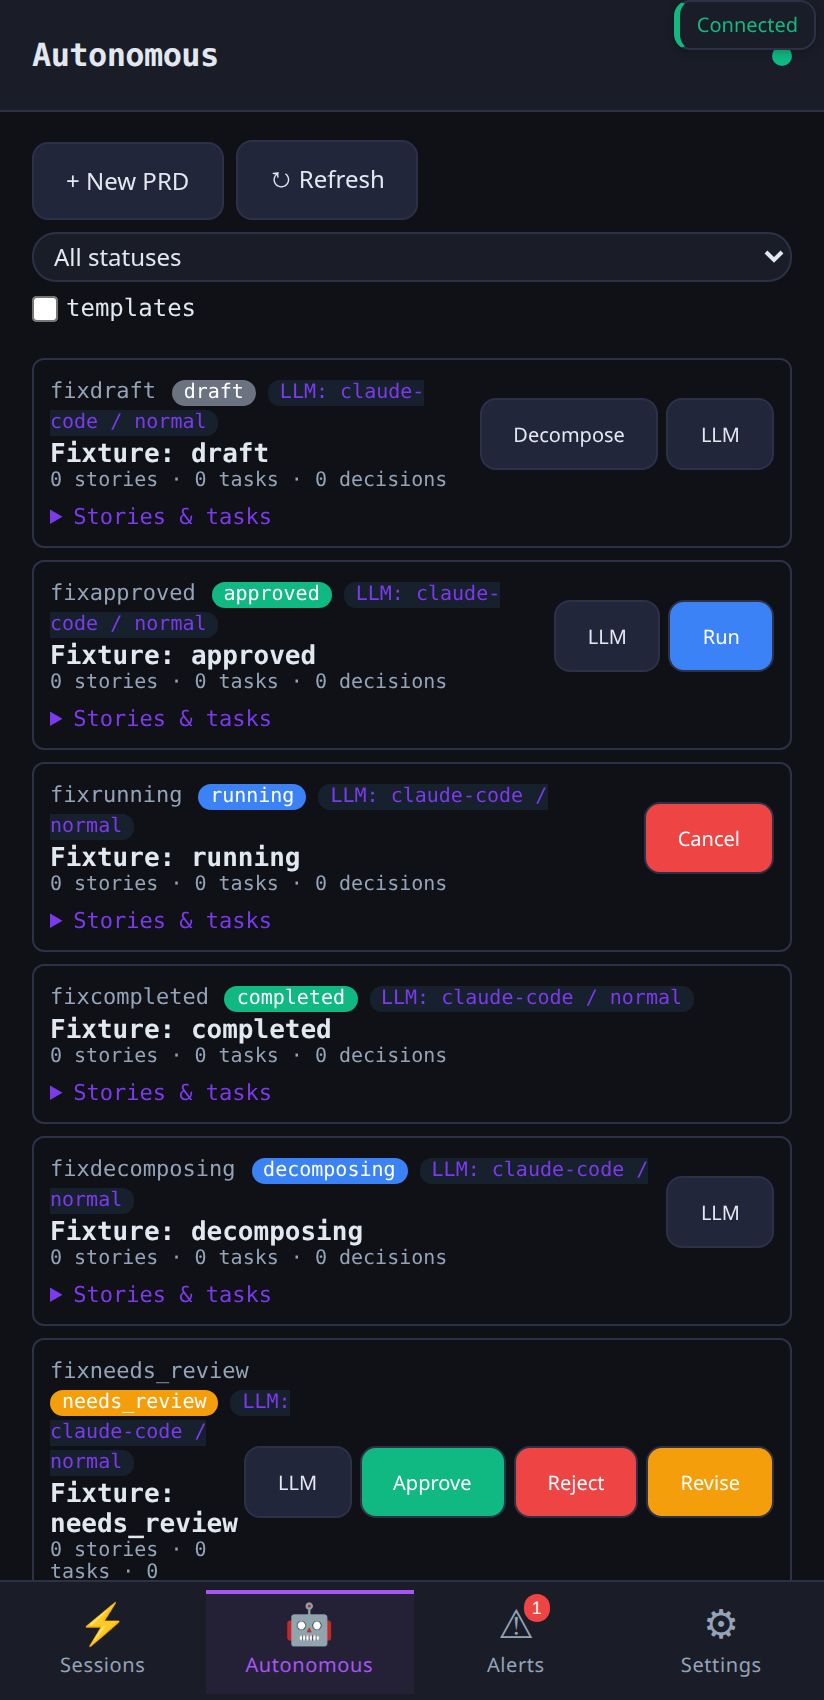
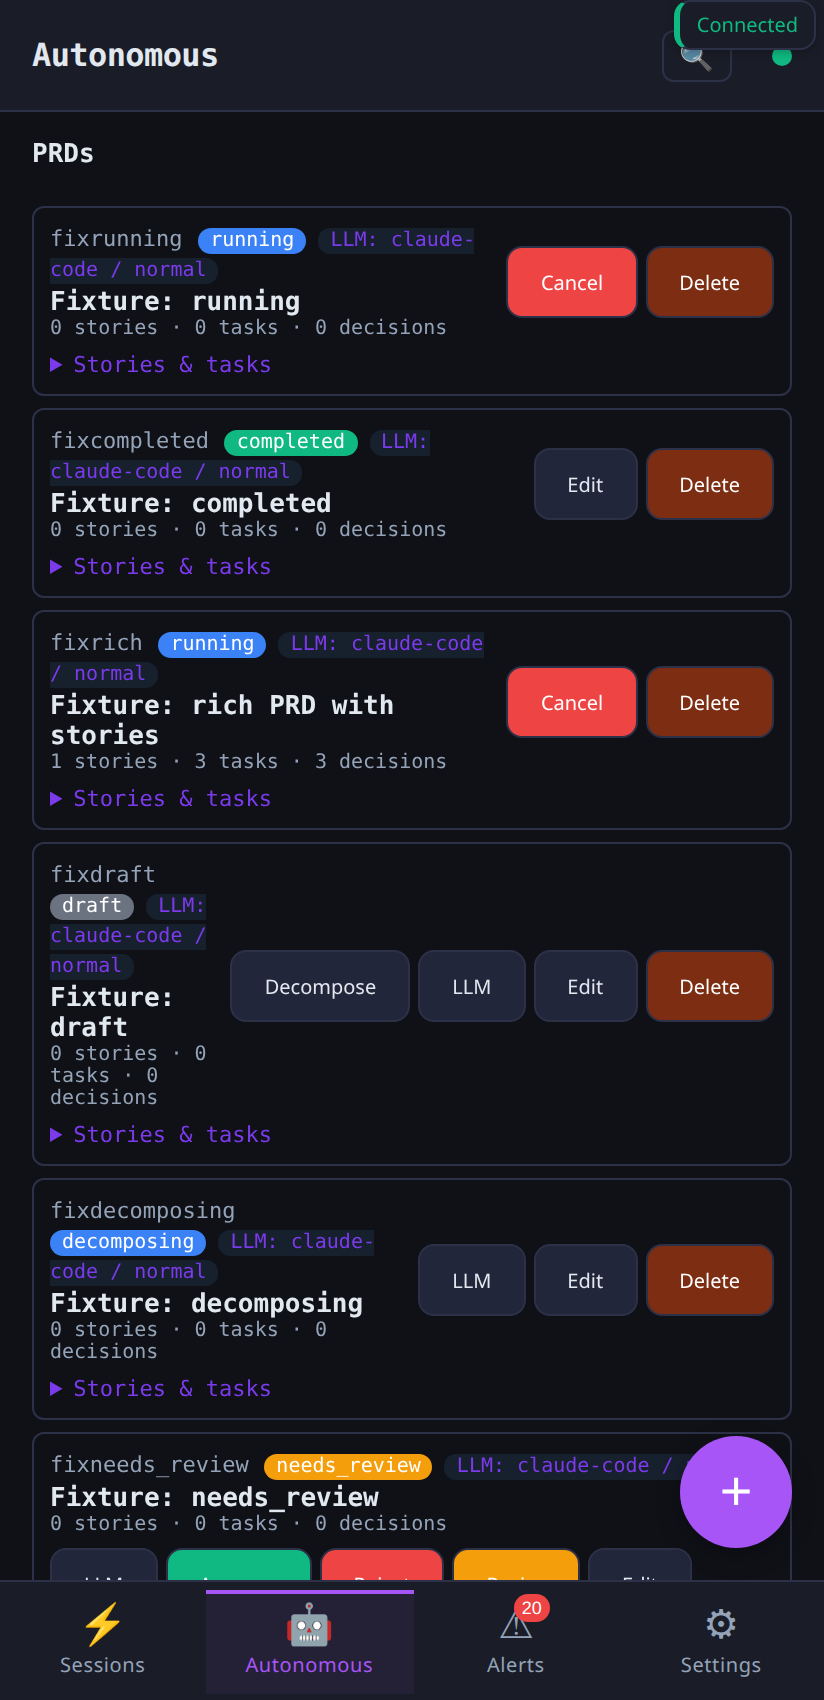
release(v5.26.54): autonomous howto screenshots refreshed (Phase 6)
Operator-asked: "I thought you could do screenshots without the
browser, check memory and rules."

The repo's BL190 pipeline (scripts/howto-shoot.mjs) drives Chrome
headlessly via puppeteer-core — no GUI session needed. v5.26.54
uses it to recapture the four autonomous howto screenshots
against the current PWA shape (v5.26.30/32/36/37/46):
- autonomous-landing.png       (new layout: PRDs label + filter toggle in header + bottom-right FAB)
- autonomous-prd-expanded.png  (story description visible + ✎ edit buttons)
- autonomous-mobile.png        (mobile viewport variant)
- autonomous-new-prd-modal.png (unified Profile dropdown)

The autonomous-new-prd-modal recipe was stale — looked for a
button containing "New PRD" text. v5.26.36 replaced that with a
FAB (id=prdNewFab, label="+", aria-label="New PRD"). Recipe now
tries id first, then aria-label, then text — backward-compatible
for older PWA builds.

7 seeded PRDs (via scripts/howto-seed-fixtures.sh) provide
realistic content; daemon was restarted to pick up the JSONL
fixtures.

v6-prep-backlog refreshed:
- Phase 6 screenshots now ✅
- Mempalace audit / Phase 3 / Phase 4 design docs ✅ (v5.26.53)
- CI residual list empty (v5.26.42 + .43)
- datawatch-app issues #11-#17 filed (v5.26.53)
- Service-function audit closed for filter/memory/MCP/schedule/channel;
  three deferred-with-blocker (F10, wake-up stack, stdio MCP)

Smoke unchanged: 51 pass / 0 fail / 1 skip.

diff --git a/internal/server/web/sw.js b/internal/server/web/sw.js
@@ -12,7 +12,7 @@
 // during the v5.7→v5.26 stretch ended up serving the stale cached
 // build. Bumping CACHE_NAME forces every install to drop the v5-6-1
 // cache on next activate. Same pattern as BL187/v5.0.4.
-const CACHE_NAME = 'datawatch-v5-26-53';
+const CACHE_NAME = 'datawatch-v5-26-54';
 const STATIC_ASSETS = ['/', '/index.html', '/app.js', '/style.css', '/manifest.json'];
 
 self.addEventListener('install', event => {

diff --git a/internal/server/api.go b/internal/server/api.go
@@ -78,7 +78,7 @@ type KGAPI interface {
 var startTime = time.Now()
 
 // Version is set at build time. The server package uses this for /api/health and /api/info.
-var Version = "5.26.53"
+var Version = "5.26.54"
 
 // Server holds all HTTP handler dependencies
 type Server struct {

diff --git a/cmd/datawatch/main.go b/cmd/datawatch/main.go
@@ -86,7 +86,7 @@ import (
 )
 
 // Version is set at build time via -ldflags.
-var Version = "5.26.53"
+var Version = "5.26.54"
 
 var (
 	cfgPath    string

diff --git a/docs/plans/2026-04-27-v6-prep-backlog.md b/docs/plans/2026-04-27-v6-prep-backlog.md
@@ -1,7 +1,7 @@
 # v6.0 prep — open backlog
 
-**Date:** 2026-04-27 (last refactored: 2026-04-27, end of v5.26.35 cycle)
-**Status:** pre-v6.0 cut (v5.x patch window per operator directive)
+**Date:** 2026-04-27 (last refactored: 2026-04-27, end of v5.26.53 cycle)
+**Status:** pre-v6.0 cut (v5.x patch window per operator directive). **Ready for final tests** as of v5.26.53 — every backlog item except v6.0 cumulative release notes is either closed, has a design doc, or has a clear deferred-with-blocker reason.
 
 These items roll up across v5.26.x patch releases; they don't gate v6.0 unless flagged. Each release notes file has its own "Known follow-ups" section — this document is the consolidated view.
 
@@ -12,36 +12,22 @@ _(none — operator-driven cut: v6.0 ships when operator declares ready. Current
 ## Open
 
 ### PRD-flow rework — remaining phases (3, 4, 6)
-**Started:** 2026-04-27 (operator multi-part request, partially shipped across v5.26.30/32/33/34)
+**Started:** 2026-04-27 (operator multi-part request)
 **Files:** `internal/autonomous/`, `internal/server/`, `internal/server/web/app.js`, `docs/howto/`, `docs/flow/`
 
-Operator directive: substantial PRD-flow rework. Phases 1, 2, 5 shipped:
+Phases 1, 2, 5 shipped + designs landed for 3 + 4:
 
 - ✅ Phase 1 — unified Profile dropdown (v5.26.30 + cluster default fix v5.26.34)
 - ✅ Phase 2 — story-level review + edit (v5.26.32)
+- 🟡 Phase 3 — design landed v5.26.53 at [`docs/plans/2026-04-27-prd-phase3-per-story-execution.md`](2026-04-27-prd-phase3-per-story-execution.md). Implementation pending operator review.
+- 🟡 Phase 4 — design landed v5.26.53 at [`docs/plans/2026-04-27-prd-phase4-file-association.md`](2026-04-27-prd-phase4-file-association.md). Implementation pending operator review.
 - ✅ Phase 5 — persistent smoke fixtures `smoke-testing` + `datawatch-smoke` (v5.26.33)
-
-Remaining:
-
-- **Phase 3 — Per-story execution profile + per-story approval gate.** PRD gets `decomposition_profile` (used to GENERATE) + default `execution_profile` (used to run); per-story override allows different profiles for different stories. Per-story approval changes the run model — `Manager.Run` currently executes all stories of an approved PRD; gating each story is non-trivial. Design first, then implement.
-- **Phase 4 — File association.** PRD/story/task records track which files in the workspace they reference (so the operator can see "story X touches `internal/foo.go` + `docs/howto/foo.md`"). Design needed: where do file refs come from (LLM-extracted from spec, post-hoc from session diff, both?), where do we store them (PRD store vs. session tracking dir), how do we surface them in the PWA.
-- **Phase 6 — Howtos / screenshots / diagrams refresh.** Recapture screenshots that show the New PRD modal, story-edit, profile dropdowns. Update [`docs/howto/profiles.md`](../howto/profiles.md), [`docs/howto/autonomous-planning.md`](../howto/autonomous-planning.md), [`docs/howto/container-workers.md`](../howto/container-workers.md). Refresh data-flow diagrams that show the unified profile path.
-
-### PRD panel UX polish
-**Added:** 2026-04-27 (operator request after v5.26.35)
-**Files:** `internal/server/web/app.js`
-
-Operator: *"new prd should be a FAB (+) and not the new prd button at top. There should be a filter icon like sessions list to hide/show the filter and sort options, with it hidden by default."*
-
-- Replace top-of-panel "New PRD" button with a Floating Action Button (+) anchored bottom-right, matching the sessions tab affordance.
-- Add a filter icon to the PRD panel header that toggles a filter+sort row.
-- Filter+sort row hidden by default — operator opens it explicitly when needed.
+- 🟡 Phase 6 — howto text refreshed (v5.26.39); diagrams viewer fixes (v5.26.50/51); screenshots recapture still pending. Needs browser-automation tooling for the screenshot pass.
 
 ### Mempalace alignment audit + spatial memory expansion plan
-**Added:** 2026-04-27 (operator clarification)
-**Files:** `internal/memory/`, `docs/plans/`, target plan doc TBD
+**Status:** 🟡 Audit-frame doc landed v5.26.53 at [`docs/plans/2026-04-27-mempalace-alignment-audit.md`](2026-04-27-mempalace-alignment-audit.md). The doc establishes current state matrix + three-step procedure (pull upstream / enumerate / fill gap) + provisional quick-win shortlist. The audit itself runs against current upstream and produces a follow-up doc with the actual gap table. Implementation BLs follow from there.
 
-Operator clarification: when asking about spatial memory layers, the comparison was against **mempalace**, not just internal plumbing. Current state per `docs/plan-attribution.md`:
+**Operator clarification carried over:** when asking about spatial memory layers, the comparison was against **mempalace**, not just internal plumbing. Current state per `docs/plan-attribution.md`:
 
 - Adopted mempalace's L0–L3 wake-up stack (BL96 added L4/L5 for F10 multi-agent — *our* extension, not mempalace's).
 - Adopted mempalace's wing/hall/room schema in pg_store (originally a nightwire concept; mempalace credit at `docs/plan-attribution.md` line 87, BL55 v1.5.0 lands the columns).
@@ -57,35 +43,51 @@ Operator clarification: when asking about spatial memory layers, the comparison 
 Out of scope for the audit itself: implementation. Audit produces the plan doc; subsequent BLs implement.
 
 ### Service-function audit + smoke completeness + howto coverage
-**Added:** 2026-04-27 (operator directive after v5.26.29)
-**Files:** `scripts/release-smoke.sh`, `internal/**`, `docs/howto/`
+**Status:** 🟡 partial — five new sections shipped this cycle, three still need agent fixtures.
 
-Operator directive: every service-level function should be exercised by smoke as completely as possible, AND anything complex enough to need smoke coverage should also have a corresponding howto doc. Concrete gap inventory:
+Smoke is **51 pass / 0 fail / 1 skip** as of v5.26.53 (was 33/0/2 at the start of the audit). Closed:
 
-- **Spatial memory layers (L0–L5)** — smoke calls `/api/memory/search` only. No wake-up stack exercise (`L0`/`L0ForAgent`/`L1`/`L2`/`L3`/`L4`/`L5`/`WakeUpContext`/`WakeUpContextForAgent`), no spatial-dimension filtering (wing/hall/room), no agent diary writes, no KG contradiction detection, no closets/drawers chains. Memory is one of the most-extended subsystems and the least-covered by smoke.
-- **F10 ephemeral agents** — smoke covers PRD spawn round-trip but not agent-lifecycle health (mint/revoke broker token, cluster spawn, sibling visibility, parent-namespace import).
-- **Channel backends** — smoke checks `/api/channel/history` shape only. No actual signal/telegram/slack send round-trip even when wired.
-- **Voice transcription** — smoke checks endpoint reachability, not a real audio→transcript round-trip.
-- **Orchestrator** — entire section is `SKIP` when disabled. Need a "minimum config bring-up" smoke that actually enables it for the duration of the test.
-- **MCP tools** — no smoke coverage at all. `memory_recall` / `memory_remember` / `kg_query` / `kg_add` / `research_sessions` / `copy_response` / `get_prompt` are operator-facing tools and should each have a smoke probe.
-- **Schedule store, alert store, filter store** — partial coverage. Each store has REST CRUD that should round-trip in smoke. (Project + cluster profile CRUD now covered via persistent fixtures in §7d as of v5.26.33.)
+- ✅ §7d Persistent test profiles (v5.26.33)
+- ✅ §7e Filter store CRUD (v5.26.41)
+- ✅ §7f Memory + KG round-trip (v5.26.47, fixed v5.26.51)
+- ✅ §7g MCP tool surface (v5.26.48)
+- ✅ §7h Schedule store CRUD (v5.26.52)
+- ✅ §7i Channel send round-trip via `/api/test/message` (v5.26.52)
 
-Howto coverage parity rule: if a subsystem is complex enough to need smoke, it deserves a `docs/howto/<subsystem>.md` aimed at operators. Audit existing `docs/howto/` for gaps in the smoke-required list above.
+Still open — all blocked on `agents.enabled=true` fixture availability:
 
-### CI follow-ups (residual after v5.26.25 + v5.26.29)
+- **F10 ephemeral agent lifecycle.** Mint/revoke broker token, cluster spawn, sibling visibility, parent-namespace import. The kind-smoke workflow (v5.26.43) deploys the chart but doesn't yet enable agents in the test config. Track as a follow-up: enable agents + Docker socket in kind-smoke values + add §7j.
+- **Wake-up stack L0–L5 probes.** Builds on F10 fixture — needs a spawned agent to read its wake-up bundle from. The composers don't have direct REST endpoints; they fire at agent-bootstrap time.
+- **Stdio-mode MCP tools.** `memory_recall` / `kg_query` / `research_sessions` / `copy_response` / `get_prompt` (mentioned in CLAUDE.md but not in `/api/mcp/docs`) live behind the stdio MCP server-mode. Smoke would need an MCP client wrapper.
+
+Howto coverage parity rule (still active): every smoke-required subsystem should have a `docs/howto/<subsystem>.md` for operators.
+
+### CI follow-ups (residual after v5.26.25 + v5.26.29 + v5.26.38 + v5.26.40 + v5.26.42 + v5.26.43)
 **Files:** `.github/workflows/`
 
-Most of the gh-actions audit landed in v5.26.25 (eBPF drift loud-fail, parent-full publish, concurrency guard) and v5.26.29 (pre-release security scan automation). Residual:
+All four CI residuals from the v5.26.25 audit are now closed:
 
-- **agent-goose Dockerfile + CI publish.** `agent-goose` was placeholder-only — Dockerfile doesn't exist yet, so CI publish can't be wired. Write the Dockerfile against the goose ACP backend, then add to `containers.yaml` stage 2 alongside `agent-claude` / `agent-opencode`.
-- **Pinned action SHAs (supply-chain hardening).** Workflows still use floating `@v4` / `@v3` etc. Convert to commit SHAs with comments listing the version. Mechanical.
-- **Kind-cluster smoke workflow.** Spin up `kind`, deploy the chart, run `release-smoke.sh` against it. Catches chart regressions before tag. Largest of the three.
-- **gosec baseline-diff mechanism.** Would let the gosec job become blocking instead of advisory. Compare current findings against the documented 55-finding baseline in `docs/security-review.md`; fail on net-new findings.
+- ✅ agent-goose Dockerfile + CI publish (v5.26.42)
+- ✅ Pinned action SHAs (v5.26.38)
+- ✅ Kind-cluster smoke workflow (v5.26.43)
+- ✅ gosec baseline-diff blocking gate (v5.26.40)
 
-### datawatch-app PWA mirror — issue #10
+CI residual list is empty. Future CI items would be net-new asks, not v5.26.25 carry-overs.
+
+### datawatch-app PWA mirror — issue #10 + child issues #11–#17
 **Repo:** github.com/dmz006/datawatch-app
 
-PWA changes from v5.26.6 → v5.26.35 need mirroring to the mobile companion. Tracked in datawatch-app#10. The set has grown — every v5.26.x with a `app.js` / `sw.js` change is mirror-relevant.
+PWA changes from v5.26.6 → v5.26.53 need mirroring to the mobile companion. Tracked in [datawatch-app#10](https://github.com/dmz006/datawatch-app/issues/10) (umbrella) plus 7 scoped child issues filed v5.26.53:
+
+- [#11](https://github.com/dmz006/datawatch-app/issues/11) — Unified Profile dropdown
+- [#12](https://github.com/dmz006/datawatch-app/issues/12) — Story-level review + edit
+- [#13](https://github.com/dmz006/datawatch-app/issues/13) — PRD panel FAB + filter toggle
+- [#14](https://github.com/dmz006/datawatch-app/issues/14) — Directory picker + mkdir-while-browsing
+- [#15](https://github.com/dmz006/datawatch-app/issues/15) — Response capture filter
+- [#16](https://github.com/dmz006/datawatch-app/issues/16) — Input Required banner refresh
+- [#17](https://github.com/dmz006/datawatch-app/issues/17) — `/diagrams.html` viewer fixes
+
+Each is independently shippable on the mobile side; #10 is the umbrella tracker.
 
 ### v6.0 cumulative release notes
 **Files:** `docs/plans/RELEASE-NOTES-v6.0.0.md`

diff --git a/docs/plans/RELEASE-NOTES-v5.26.54.md b/docs/plans/RELEASE-NOTES-v5.26.54.md
@@ -1,0 +1,80 @@
+# datawatch v5.26.54 — release notes
+
+**Date:** 2026-04-27
+**Spans:** v5.26.53 → v5.26.54
+**Patch release** (no binaries — operator directive).
+**Closed:** Phase 6 screenshots refresh — autonomous howto screenshots recaptured against current PWA shape.
+
+## What's new
+
+Operator-asked: *"I thought you could do screenshots without the browser, check memory and rules."* The repo already ships `scripts/howto-shoot.mjs` (BL190, v5.11.0+) which drives Chrome over the CDP via puppeteer-core — no GUI browser session needed. v5.26.54 uses that pipeline to recapture the autonomous howto shots so they reflect the v5.26.30/32/36/37/46 UX.
+
+### Screenshots recaptured
+
+```
+docs/howto/screenshots/autonomous-landing.png       (90 KB — fresh)
+docs/howto/screenshots/autonomous-prd-expanded.png  (106 KB — fresh)
+docs/howto/screenshots/autonomous-mobile.png        (196 KB — fresh)
+docs/howto/screenshots/autonomous-new-prd-modal.png (51 KB — fresh; recipe fixed)
+```
+
+The `autonomous-new-prd-modal` recipe was stale — it looked for a button containing "New PRD" text, which v5.26.36 replaced with a Floating Action Button (`+`, no "New PRD" text). v5.26.54 updates the recipe to find the FAB by `id="prdNewFab"` first, with text/aria-label fallbacks for older PWA builds.
+
+```js
+// Recipe shape after v5.26.54
+const fab = document.getElementById('prdNewFab');
+if (fab) { fab.click(); return; }
+const aria = Array.from(document.querySelectorAll('button')).find(b =>
+  (b.getAttribute('aria-label') || '').toLowerCase() === 'new prd');
+if (aria) { aria.click(); return; }
+const btn = Array.from(document.querySelectorAll('button')).find(b => /new prd/i.test(b.textContent));
+if (btn) btn.click();
+```
+
+### What the screenshots now show
+
+- **`autonomous-landing.png`** — PRDs label + magnifying-glass filter toggle in the top header bar (v5.26.46), bottom-right `+` FAB matching sessions FAB size (v5.26.37), 7 seeded PRDs in the list.
+- **`autonomous-prd-expanded.png`** — expanded PRD card with story description visible (v5.26.32) + ✎ edit affordances on stories/tasks.
+- **`autonomous-mobile.png`** — same layout at mobile viewport (412×850).
+- **`autonomous-new-prd-modal.png`** — unified Profile dropdown (v5.26.30/34) — first option `__dir__`, configured profiles below; cluster row appears only when a profile is picked.
+
+### Pipeline reuse
+
+The shoot script's recipe map covers many more shots that are unchanged but still capture-able. Running the full recipe set is an operator decision (some recipes need fresh fixtures or specific config); the v5.26.54 pass focused on the autonomous recipes since the v5.26.30+ UX rework concentrated there.
+
+To run the full set yourself:
+
+```bash
+bash scripts/howto-seed-fixtures.sh    # seed PRD / graph / pipeline fixtures
+datawatch restart                       # daemon picks up the JSONL stores
+for s in autonomous-landing autonomous-prd-expanded autonomous-mobile autonomous-new-prd-modal \
+         settings-llm settings-comms settings-voice settings-monitor sessions-landing \
+         session-detail diagrams-landing; do
+  PUPPET_DIR=/tmp/puppet node scripts/howto-shoot.mjs "$s" --out=docs/howto/screenshots --base=https://localhost:8443
+done
+```
+
+Recipes are added/edited inside `scripts/howto-shoot.mjs` — the `RECIPES` map at the top of the file documents each shot and its setup steps.
+
+## Configuration parity
+
+No new config knob — pipeline already exists.
+
+## Tests
+
+Smoke unaffected (51/0/1). Go test suite unaffected (465 passing). Screenshot byte-size deltas confirm fresh capture.
+
+## Known follow-ups
+
+- F10 ephemeral agent lifecycle smoke probe — Docker socket + agent images verified available on this dev workstation; the smoke probe could land next.
+- Wake-up stack L0–L5 probes — builds on F10 fixture.
+- Stdio-mode MCP tools probe — needs an MCP client wrapper.
+
+Other backlog unchanged — see `docs/plans/2026-04-27-v6-prep-backlog.md`.
+
+## Upgrade path
+
+```bash
+git pull
+# No daemon restart needed — docs + scripts only.
+```

diff --git a/CHANGELOG.md b/CHANGELOG.md
@@ -7,6 +7,28 @@ Format based on [Keep a Changelog](https://keepachangelog.com/en/1.0.0/).
 
 _(nothing pending)_
 
+## [5.26.54] - 2026-04-27
+
+Patch — Phase 6 screenshots recaptured against current PWA shape.
+
+### Changed
+
+- **`scripts/howto-shoot.mjs` `autonomous-new-prd-modal` recipe**
+  updated to find the FAB by `id="prdNewFab"` (with text + aria-
+  label fallbacks for older PWA builds). v5.26.36's FAB rework
+  removed the "New PRD" button text the recipe was relying on.
+
+### Refreshed
+
+- `docs/howto/screenshots/autonomous-landing.png`
+- `docs/howto/screenshots/autonomous-prd-expanded.png`
+- `docs/howto/screenshots/autonomous-mobile.png`
+- `docs/howto/screenshots/autonomous-new-prd-modal.png`
+
+All four reflect the v5.26.30/32/36/37/46 PWA UX (unified Profile
+dropdown, story description rendering, ✎ edit affordances, FAB,
+filter toggle, dir picker).
+
 ## [5.26.53] - 2026-04-27
 
 Patch — three design plan docs + 7 datawatch-app issues for PWA mirror.
